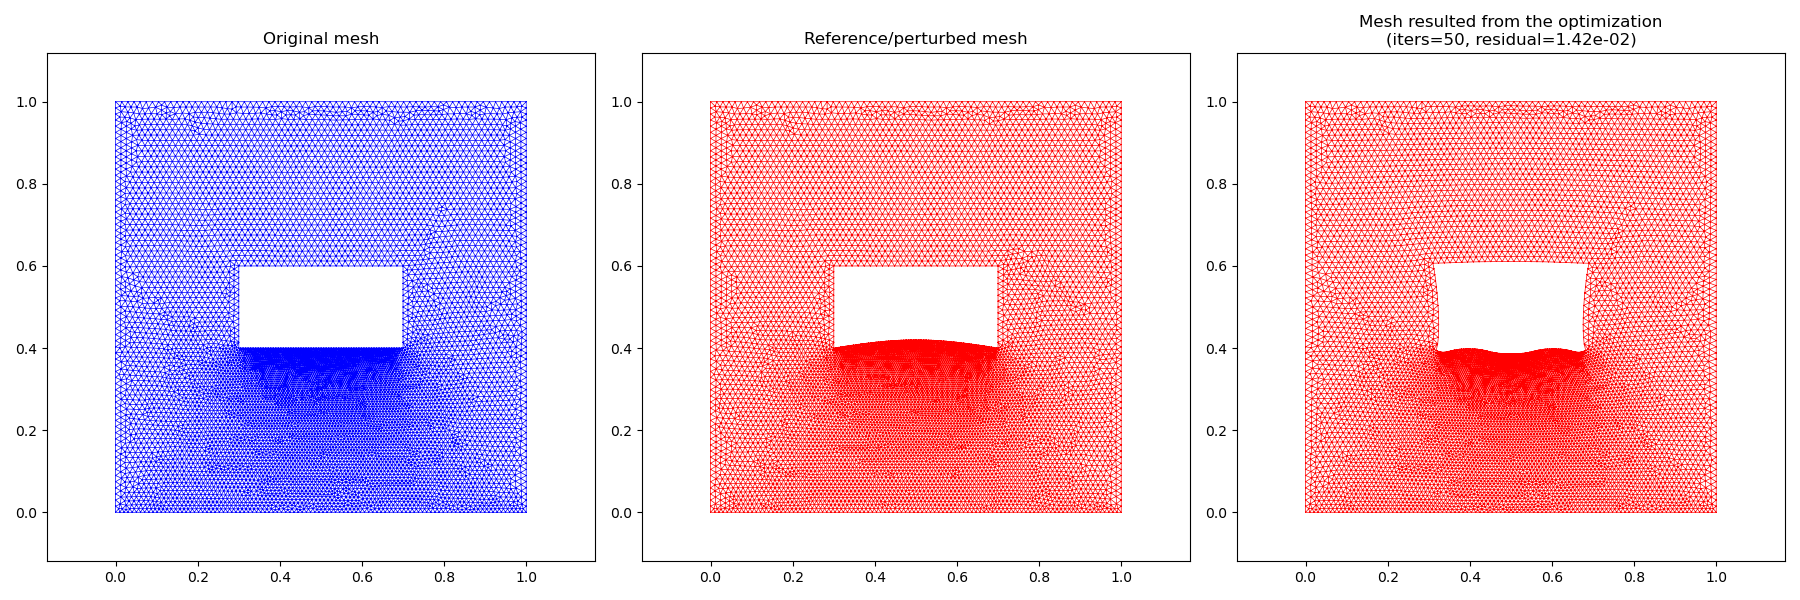
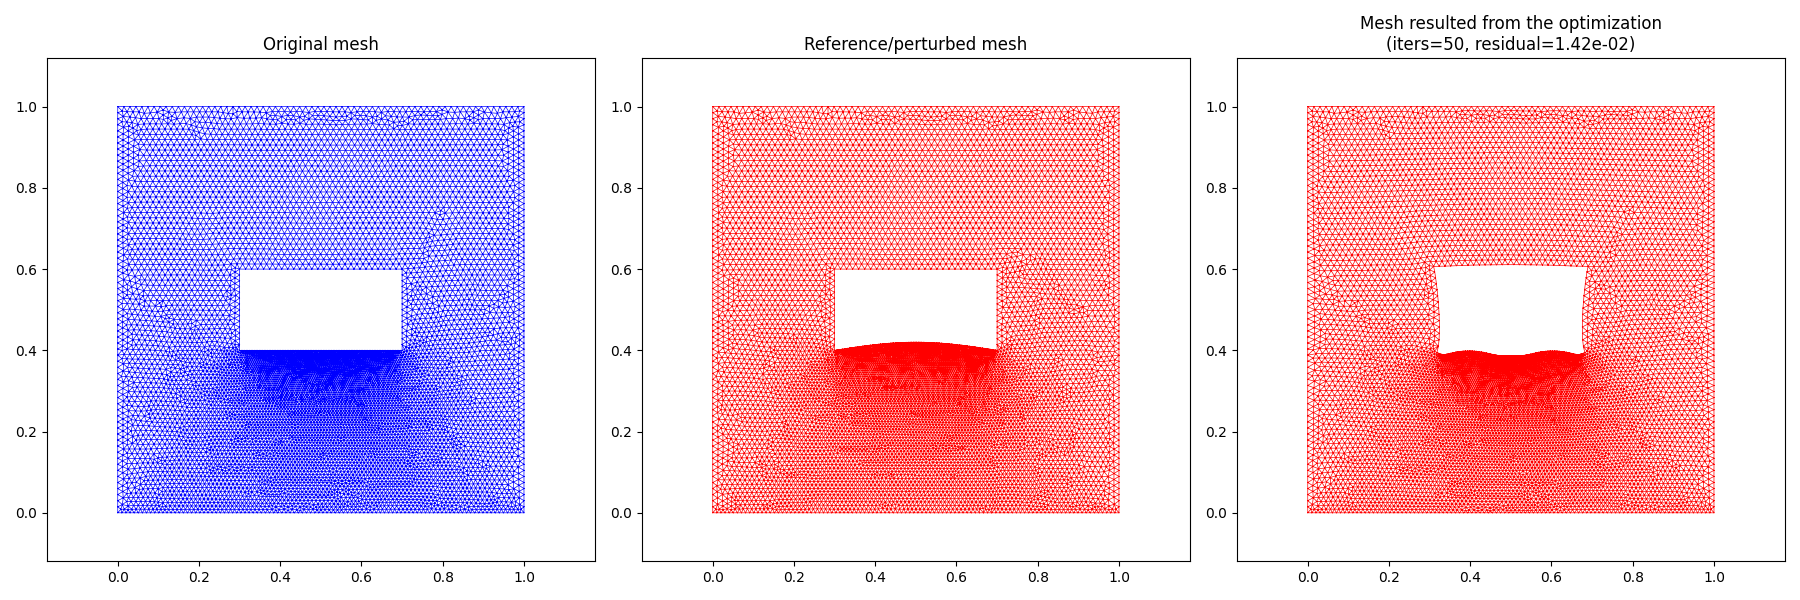
newest results

diff --git a/opt_obstacle_one_planewave/opt_script.py b/opt_obstacle_one_planewave/opt_script.py
@@ -12,6 +12,7 @@ import os
 import sys
 import gmsh
 import matplotlib.pyplot as plt
+import warnings
 
 from mesh_generation import obstacle_marker, side_wall_marker, bottom_wall_marker, obstacle_opt_marker
 
@@ -20,18 +21,18 @@ from HH_shape_opt.helmholtz_solve import HelmholtzSetup, plane_wave, helmholtz_s
 from HH_shape_opt.initialize_opt import initialize_opt_xdmf
 from HH_shape_opt.process_result import save_optimization_result, plot_mesh_deformation_from_result
 
-set_log_level(LogLevel.PROGRESS)
+set_log_level(LogLevel.ERROR)
 
 ######################################
 
 script_dir = os.path.dirname(os.path.abspath(__file__))
 os.chdir(script_dir)
 
-msh_file_path = "meshes/square_with_halfsin_perturbed_rect_obstacle.msh"
-#msh_file_path = "meshes/square_with_rect_obstacle_all.msh"
+goal_geometry_msh_path = "meshes/square_with_halfsin_perturbed_rect_obstacle.msh"
+msh_file_path = "meshes/square_with_rect_obstacle_all.msh"
 #goal_geometry_msh_path = "meshes/square_with_sym_exp_perturbed_rect.msh"
 forward_sim_result_file_path = "forward_sim_data_bottom_sweep_halfsin.csv"
-result_path = "outputs/result_sin_15.h5"
+result_path = "outputs/result_halfsin_234.h5"
 
 frequencies = np.arange(2.5e9, 5.0e9 + 1, 0.5e9)
 
@@ -77,18 +78,32 @@ Jhat = ReducedFunctional(
 problem = MoolaOptimizationProblem(Jhat)
 h_moola = moola.DolfinPrimalVector(h)
 
-alpha = 1.0
 solver = moola.BFGS(problem, h_moola, 
     options={
-    "maxiter": 15,
-    "mem_lim": 1
+    "maxiter": 234,
+    "jtol":1e-9,
+    "gtol":1e-7,
+    "mem_lim": 1,
     })
 
 #"line_search_options": {"ftol": 1e-4, "start_stp": 10.0, "stpmin" : 1e-10, "stpmax":10000}
 #})
 sol = solver.solve()
+save_optimization_result(sol, msh_file_path,
+                         hh_setup.obstacle_stiffness,
+                         result_path, False)
 
-#save_optimization_result(sol, msh_file_path, hh_setup.obstacle_stiffness, result_path, False)
+plot_mesh_deformation_from_result(
+    result_path,
+    msh_file_path,
+    goal_geometry_msh_path,
+    obstacle_marker,
+    side_wall_marker,
+    bottom_wall_marker,
+    None,
+    "outputs/mesh_deformation_halfsin_234.png",
+    50
+)
 
 """
 

diff --git a/HH_shape_opt/helmholtz_solve.py b/HH_shape_opt/helmholtz_solve.py
@@ -244,7 +244,8 @@ def helmholtz_solve(mesh_copy, markers_copy, h_control, hh_setup,
     u_tot_im = u_inc_im + u_sol_im
 
     # Compute magnitude
-    u_tot_mag = sqrt(u_tot_re**2 + u_tot_im**2)
+    #TODO: change this to square instead and square the signal we got
+    u_tot_mag = sqrt(u_tot_re**2 + u_tot_im**2) # sqrt is problematic for Hessian cal
 
     # Create measure for bottom boundary with appropriate quadrature
     ds_bottom = Measure("ds", domain=mesh_copy, subdomain_data=markers_copy, 
